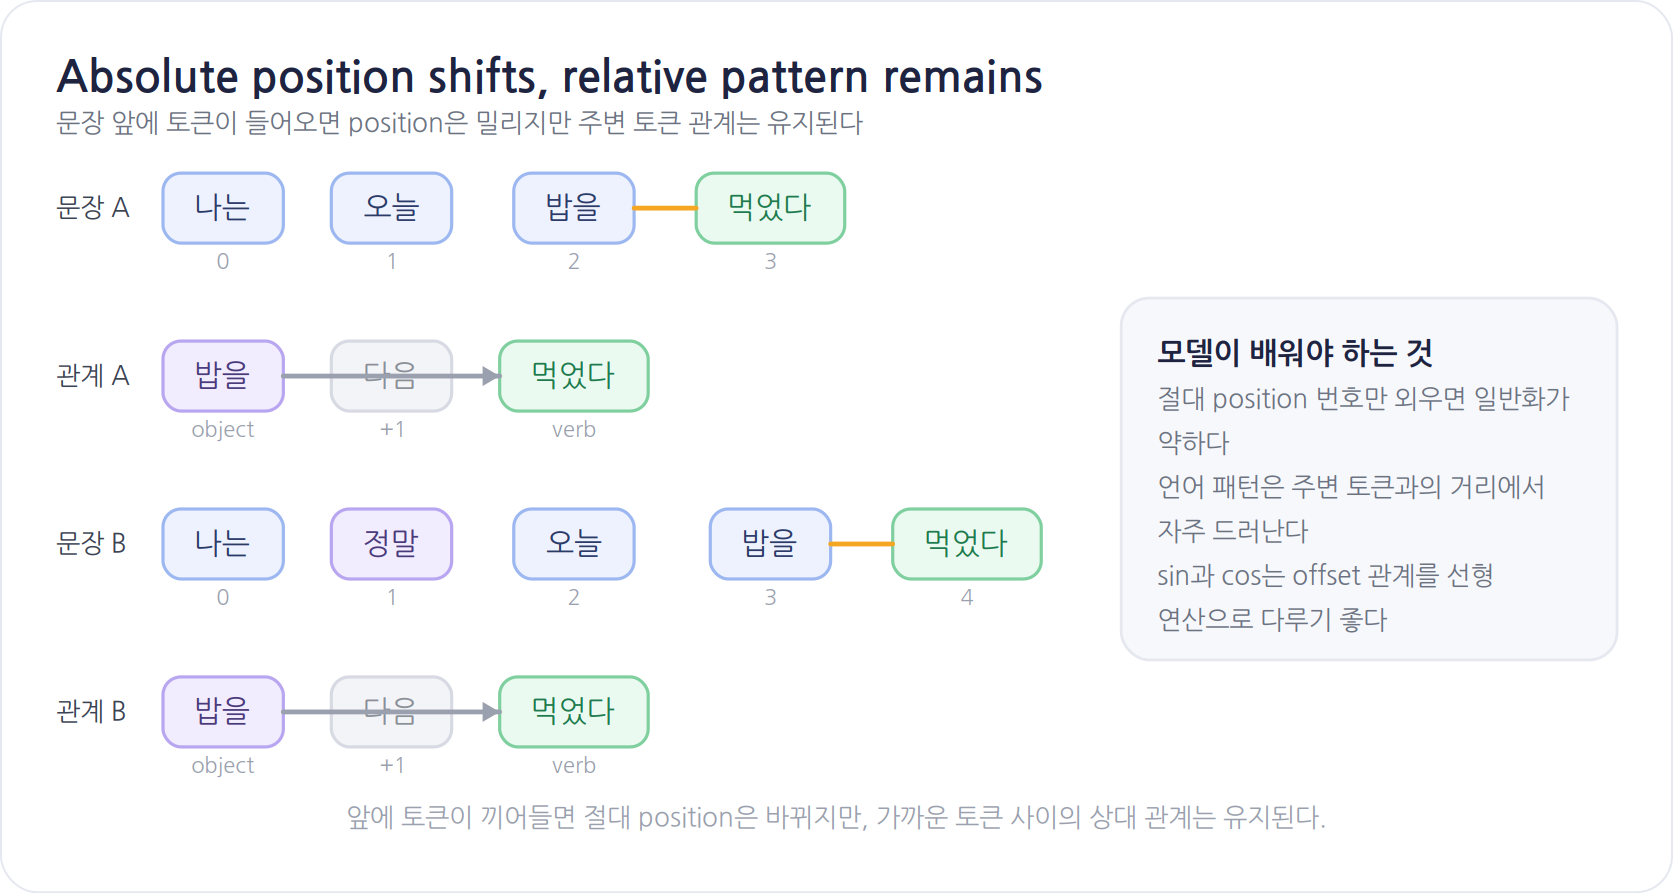
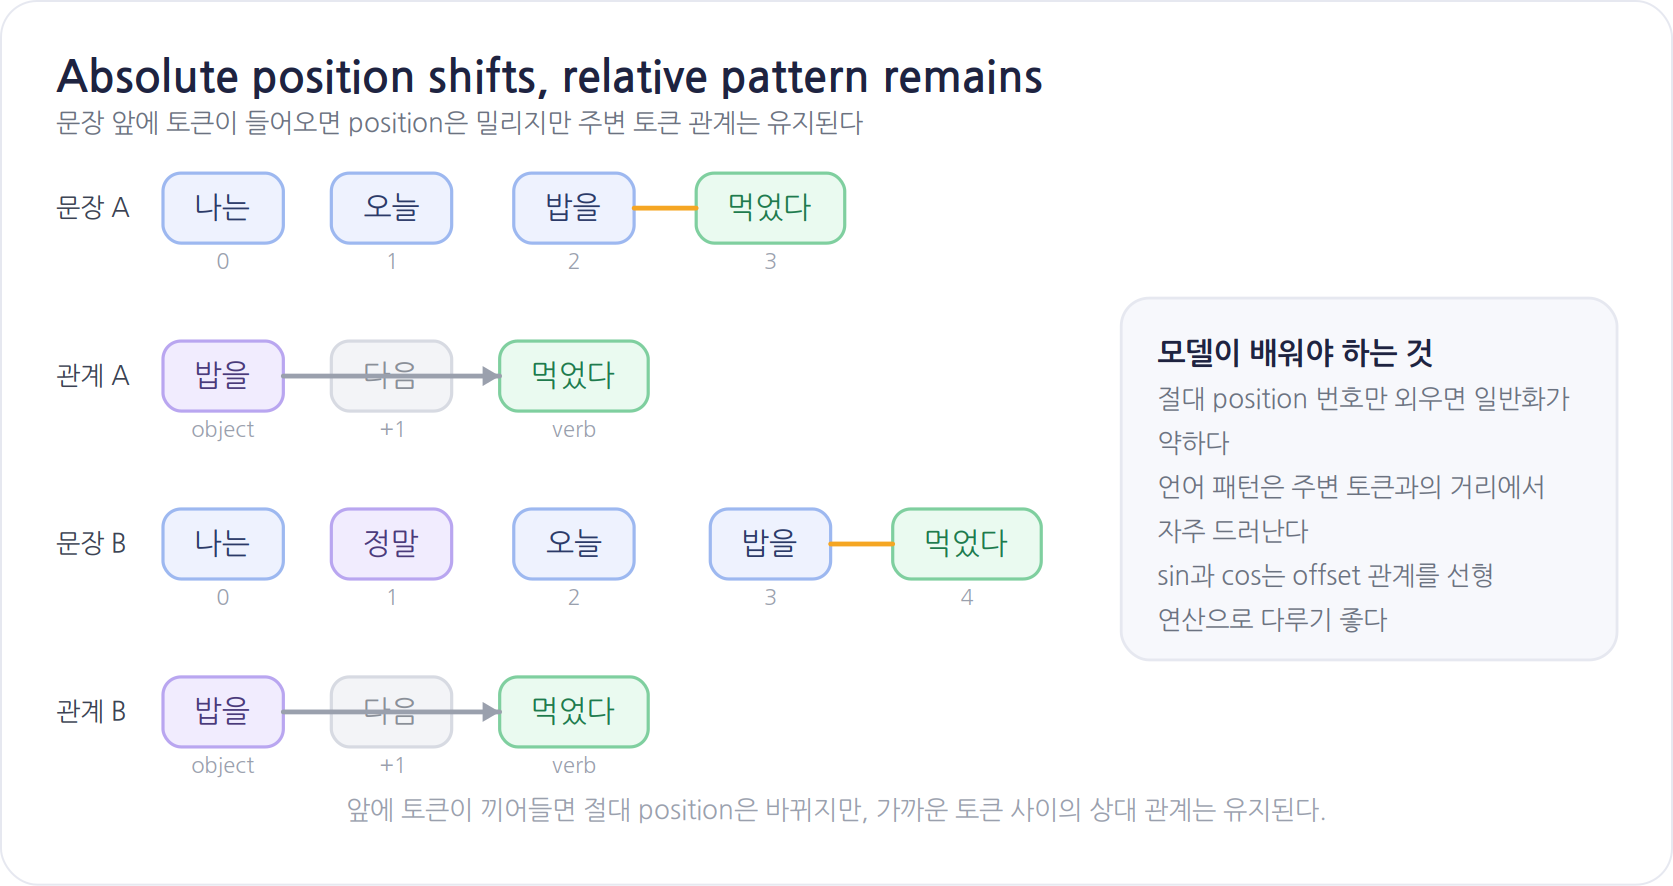
fix: robustness — cycle/back-edge layering, self-loops, node text wrap, bbox-fit canvas [v0.4.0]
까다로운 입력 감사(examples/audit.py)로 발견한 결함 수정:
- flow cycle/back edge 가 longest-path layer 를 인플레이션시키던 버그 → 반복적 DFS 로
  back edge 분류해 DAG 에서만 layering (cycle 안전, 인플레이션 없음)
- self-loop(a→a): 노드를 관통하던 선·라벨 → 오른쪽 작은 고리 + 옆 라벨로 렌더
- 노드 텍스트 자동 줄바꿈(MAX_NODE_W=240) → 긴 문장이 880px 박스가 되던 문제 해결
- 캔버스 = 모든 요소 bbox 합집합 + 여백 → 자기루프·레인·라벨·헤더까지 항상 포함(클리핑 0)
- tests 14 passed, 기존 5종 회귀 없음

diff --git a/src/geny_svgforge/layout.py b/src/geny_svgforge/layout.py
@@ -20,6 +20,7 @@ from .themes import get_theme
 PAD = 28
 BOX_PAD_X = 16
 BOX_MIN_W = 52
+MAX_NODE_W = 240   # 노드 텍스트가 이보다 넓으면 자동 줄바꿈
 COL_GAP = 24
 BOX_RX = 9
 NOTE_W = 248
@@ -109,7 +110,9 @@ def layout_node_graph(spec: NodeGraphSpec, align: str = "grid") -> Scene:
     # 노드 측정 (도형 보정 포함)
     cell: dict[tuple[int, int], dict] = {}
     for n in nodes:
-        lines = n.text.split("\n")
+        lines: list[str] = []
+        for raw in n.text.split("\n"):
+            lines.extend(_wrap(raw, MAX_NODE_W, reg, fs) if raw else [""])
         tw = max((reg.text_width(ln, fs) for ln in lines), default=0)
         w = max(BOX_MIN_W, tw + BOX_PAD_X * 2)
         h = box_h0 + (len(lines) - 1) * line_h
@@ -150,17 +153,14 @@ def layout_node_graph(spec: NodeGraphSpec, align: str = "grid") -> Scene:
         grid_right = grid_x0 + content_w
 
     els: list = []
-    header_right = 0.0
     y = PAD
     if spec.title:
         w = bold.text_width(spec.title, title_sz)
         els.append(TextEl(PAD, y + title_sz * 0.82, spec.title, title_sz, th["title"], "bold", "start", w))
-        header_right = max(header_right, PAD + w)
         y += title_sz * 1.25
     if spec.subtitle:
         w = reg.text_width(spec.subtitle, sub_sz)
         els.append(TextEl(PAD, y + sub_sz * 0.82, spec.subtitle, sub_sz, th["subtitle"], "normal", "start", w))
-        header_right = max(header_right, PAD + w)
         y += sub_sz * 1.7
     y += fs * 0.6
 
@@ -217,12 +217,32 @@ def layout_node_graph(spec: NodeGraphSpec, align: str = "grid") -> Scene:
     grid_bottom = cur - ROW_GAP
 
     # ── edges (경계 내부 한정 라우팅 + 라벨) ──
+    def _edge_label(lx: float, ly: float, label: str) -> None:
+        lw = reg.text_width(label, slab_sz)
+        els.append(RectEl(lx - lw / 2 - 5, ly - slab_sz * 0.72, lw + 10, slab_sz + 5,
+                          (slab_sz + 5) / 2, th["bg"], "none", 0.0))
+        els.append(TextEl(lx, ly + slab_sz * 0.30, label, slab_sz, th["row_label"], "normal", "middle", lw))
+
     for e in spec.edges:
         a = id_rect.get(e.from_)
         b = id_rect.get(e.to)
         if not a or not b:
             continue
         col = th[f"connector_{e.color}"]
+
+        # 자기 루프 — 노드 오른쪽에 작은 고리
+        if e.from_ == e.to:
+            sx, sy = a.right, a.y + a.h * 0.30
+            ex, ey = a.right, a.y + a.h * 0.70
+            bulge = a.right + 24
+            d = f"M {sx:.1f} {sy:.1f} C {bulge:.1f} {sy-4:.1f}, {bulge:.1f} {ey+4:.1f}, {ex:.1f} {ey:.1f}"
+            els.append(PathEl(d, col, 2.2, "none", Rect(a.right, sy - 4, bulge - a.right + 2, (ey - sy) + 8), dashed=e.dashed))
+            if e.arrow:
+                els.append(_arrow_head(ex, ey, "left", col))
+            if e.label:
+                _edge_label(bulge + 6 + reg.text_width(e.label, slab_sz) / 2, (sy + ey) / 2, e.label)
+            continue
+
         dx = b.cx - a.cx
         dy = b.cy - a.cy
         rs, rt = id_row.get(e.from_, 0), id_row.get(e.to, 0)
@@ -268,13 +288,7 @@ def layout_node_graph(spec: NodeGraphSpec, align: str = "grid") -> Scene:
         if e.arrow:
             els.append(_arrow_head(ex, ey, end_dir, col))
         if e.label:
-            lw = reg.text_width(e.label, slab_sz)
-            els.append(RectEl(lx - lw / 2 - 5, ly - slab_sz * 0.72, lw + 10, slab_sz + 5,
-                              (slab_sz + 5) / 2, th["bg"], "none", 0.0))
-            els.append(TextEl(lx, ly + slab_sz * 0.30, e.label, slab_sz, th["row_label"], "normal", "middle", lw))
-
-    content_bottom = grid_bottom
-    right_edge = grid_right
+            _edge_label(lx, ly, e.label)
 
     # ── note 사이드바 ──
     if spec.note:
@@ -298,11 +312,14 @@ def layout_node_graph(spec: NodeGraphSpec, align: str = "grid") -> Scene:
             fm = bold if weight == "bold" else reg
             w = fm.text_width(t, sz)
             els.append(TextEl(note_x + NOTE_PAD, note_y + ly, t, sz, c, weight, "start", w))
-        content_bottom = max(content_bottom, note_y + h)
-        right_edge = note_x + NOTE_W
+
+    # 캔버스 = 모든 요소 bbox 의 합집합 + 여백 (자기루프·레인·라벨·노트·헤더 전부 포함)
+    bboxes = [el.bbox() for el in els if el.bbox() is not None]
+    content_right = max((bb.right for bb in bboxes), default=grid_right)
+    content_bottom = max((bb.bottom for bb in bboxes), default=grid_bottom)
 
     cap_w = reg.text_width(spec.caption, caption_sz) if spec.caption else 0.0
-    canvas_w = max(right_edge + PAD, header_right + PAD, cap_w + 2 * PAD, PAD * 2 + 200)
+    canvas_w = max(content_right + PAD, cap_w + 2 * PAD, PAD * 2 + 200)
 
     y = content_bottom
     if spec.caption:
@@ -320,15 +337,44 @@ def _layer_flow(spec: FlowSpec) -> NodeGraphSpec:
     """flow → layer 자동 산출 후 node-graph 로 변환 (longest-path layering + barycenter 정렬)."""
     by_id = {n.id: n for n in spec.nodes}
     order_idx = {n.id: i for i, n in enumerate(spec.nodes)}
-    edges = [(e.from_, e.to) for e in spec.edges if e.from_ in by_id and e.to in by_id]
+    # self-edge 는 layering 에서 제외(자기 루프로 렌더), 나머지로 그래프 구성
+    raw = [(e.from_, e.to) for e in spec.edges
+           if e.from_ in by_id and e.to in by_id and e.from_ != e.to]
+    succ: dict[str, list[str]] = defaultdict(list)
+    for u, v in raw:
+        succ[u].append(v)
+
+    # 반복적 DFS 로 back edge(조상으로 향하는 엣지) 분류 → layering 에서 제외 → cycle 안전.
+    state: dict[str, int] = {nid: 0 for nid in by_id}  # 0 white · 1 gray · 2 black
+    back: set[tuple[str, str]] = set()
+    for root in by_id:
+        if state[root] != 0:
+            continue
+        state[root] = 1
+        stack = [(root, iter(succ[root]))]
+        while stack:
+            u, it = stack[-1]
+            for v in it:
+                sv = state.get(v, 0)
+                if sv == 1:
+                    back.add((u, v))
+                elif sv == 0:
+                    state[v] = 1
+                    stack.append((v, iter(succ[v])))
+                    break
+            else:
+                state[u] = 2
+                stack.pop()
+
+    dag = [(u, v) for (u, v) in raw if (u, v) not in back]
     preds: dict[str, list[str]] = defaultdict(list)
-    for u, v in edges:
+    for u, v in dag:
         preds[v].append(u)
 
     layer = {nid: 0 for nid in by_id}
-    for _ in range(len(by_id)):
+    for _ in range(len(by_id) + 1):
         changed = False
-        for u, v in edges:
+        for u, v in dag:
             if layer[v] < layer[u] + 1:
                 layer[v] = layer[u] + 1
                 changed = True

diff --git a/examples/audit.py b/examples/audit.py
@@ -1,0 +1,53 @@
+"""까다로운 입력으로 약점을 찾는 감사 스크립트."""
+import traceback
+
+from geny_svgforge import render
+
+CASES = {
+    "long_text": {
+        "type": "node-graph",
+        "nodes": [
+            {"text": "이것은 한 박스 안에 들어가기에는 지나치게 긴 설명 문장이라서 자동 줄바꿈이 없으면 박스가 끔찍하게 넓어진다", "row": 0, "col": 0},
+            {"text": "짧음", "row": 0, "col": 1},
+        ],
+    },
+    "cycle": {
+        "type": "flow",
+        "nodes": [{"id": "a", "text": "A"}, {"id": "b", "text": "B"}, {"id": "c", "text": "C"}],
+        "edges": [{"from": "a", "to": "b", "arrow": True}, {"from": "b", "to": "c", "arrow": True},
+                  {"from": "c", "to": "a", "arrow": True, "color": "gray", "label": "retry"}],
+    },
+    "self_loop": {
+        "type": "flow",
+        "nodes": [{"id": "a", "text": "시작"}, {"id": "b", "text": "polling", "shape": "diamond"}, {"id": "c", "text": "끝"}],
+        "edges": [{"from": "a", "to": "b", "arrow": True}, {"from": "b", "to": "b", "arrow": True, "label": "wait"},
+                  {"from": "b", "to": "c", "arrow": True, "label": "done"}],
+    },
+    "single": {"type": "flow", "nodes": [{"id": "a", "text": "혼자", "shape": "pill"}], "edges": []},
+    "right_dir": {
+        "type": "flow", "direction": "right",
+        "nodes": [{"id": "a", "text": "입력"}, {"id": "b", "text": "처리", "shape": "diamond"},
+                  {"id": "c", "text": "출력", "variant": "good"}, {"id": "d", "text": "에러", "variant": "muted"}],
+        "edges": [{"from": "a", "to": "b", "arrow": True}, {"from": "b", "to": "c", "arrow": True, "label": "ok"},
+                  {"from": "b", "to": "d", "arrow": True, "label": "fail"}],
+    },
+    "wide_fanout": {
+        "type": "flow",
+        "nodes": [{"id": "root", "text": "router", "shape": "diamond", "variant": "highlight"},
+                  *[{"id": f"c{i}", "text": f"handler {i}"} for i in range(6)]],
+        "edges": [{"from": "root", "to": f"c{i}", "arrow": True} for i in range(6)],
+    },
+}
+
+for name, spec in CASES.items():
+    try:
+        r = render(spec)
+        flag = ""
+        if r.warnings:
+            flag = f"  ⚠ warnings={r.warnings}"
+        if r.width > 900:
+            flag += f"  ⚠ very wide ({r.width:.0f})"
+        print(f"[{name:12}] {r.width:.0f}x{r.height:.0f}{flag}")
+    except Exception as e:  # noqa: BLE001
+        print(f"[{name:12}] EXCEPTION: {e}")
+        traceback.print_exc()

diff --git a/tests/test_core.py b/tests/test_core.py
@@ -97,6 +97,38 @@ def test_flow_auto_layout_renders_clean():
     assert r.svg.startswith("<svg") and "<title>" not in r.svg or True
 
 
+def test_flow_cycle_does_not_inflate_layers():
+    from geny_svgforge.layout import _layer_flow
+    from geny_svgforge.spec import FlowSpec
+    ng = _layer_flow(FlowSpec.model_validate({
+        "type": "flow",
+        "nodes": [{"id": "a", "text": "A"}, {"id": "b", "text": "B"}, {"id": "c", "text": "C"}],
+        "edges": [{"from": "a", "to": "b"}, {"from": "b", "to": "c"}, {"from": "c", "to": "a"}],
+    }))
+    rows = {n.id: n.row for n in ng.nodes}
+    assert rows == {"a": 0, "b": 1, "c": 2}  # back edge c->a 무시 → 인플레이션 없음
+    assert render({"type": "flow",
+                   "nodes": [{"id": "a", "text": "A"}, {"id": "b", "text": "B"}],
+                   "edges": [{"from": "a", "to": "b"}, {"from": "b", "to": "a"}]}).warnings == []
+
+
+def test_flow_self_loop_renders_clean():
+    r = render({
+        "type": "flow",
+        "nodes": [{"id": "a", "text": "poll", "shape": "diamond"}, {"id": "b", "text": "done"}],
+        "edges": [{"from": "a", "to": "a", "arrow": True, "label": "wait"},
+                  {"from": "a", "to": "b", "arrow": True}],
+    })
+    assert r.warnings == []
+
+
+def test_long_node_text_wraps():
+    long = "이것은 한 박스 안에 들어가기에는 지나치게 긴 설명 문장이라 자동 줄바꿈이 필요하다"
+    r = render({"type": "node-graph", "nodes": [{"text": long, "row": 0, "col": 0}]})
+    assert r.warnings == []
+    assert r.width < 360  # 줄바꿈으로 폭이 제한됨 (미적용 시 700+)
+
+
 def test_flow_layering_assigns_rows():
     from geny_svgforge.layout import _layer_flow
     from geny_svgforge.spec import FlowSpec
